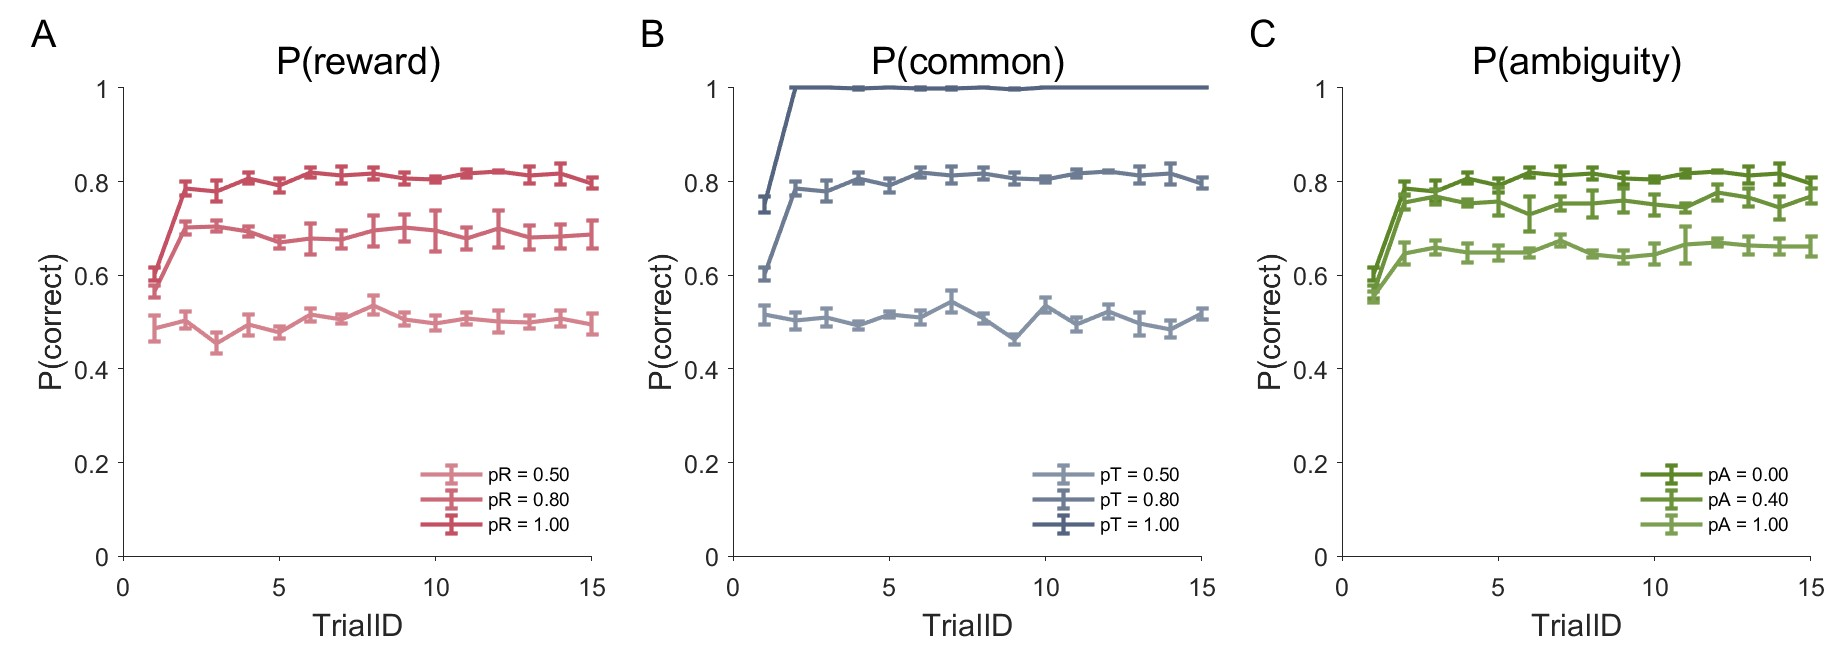
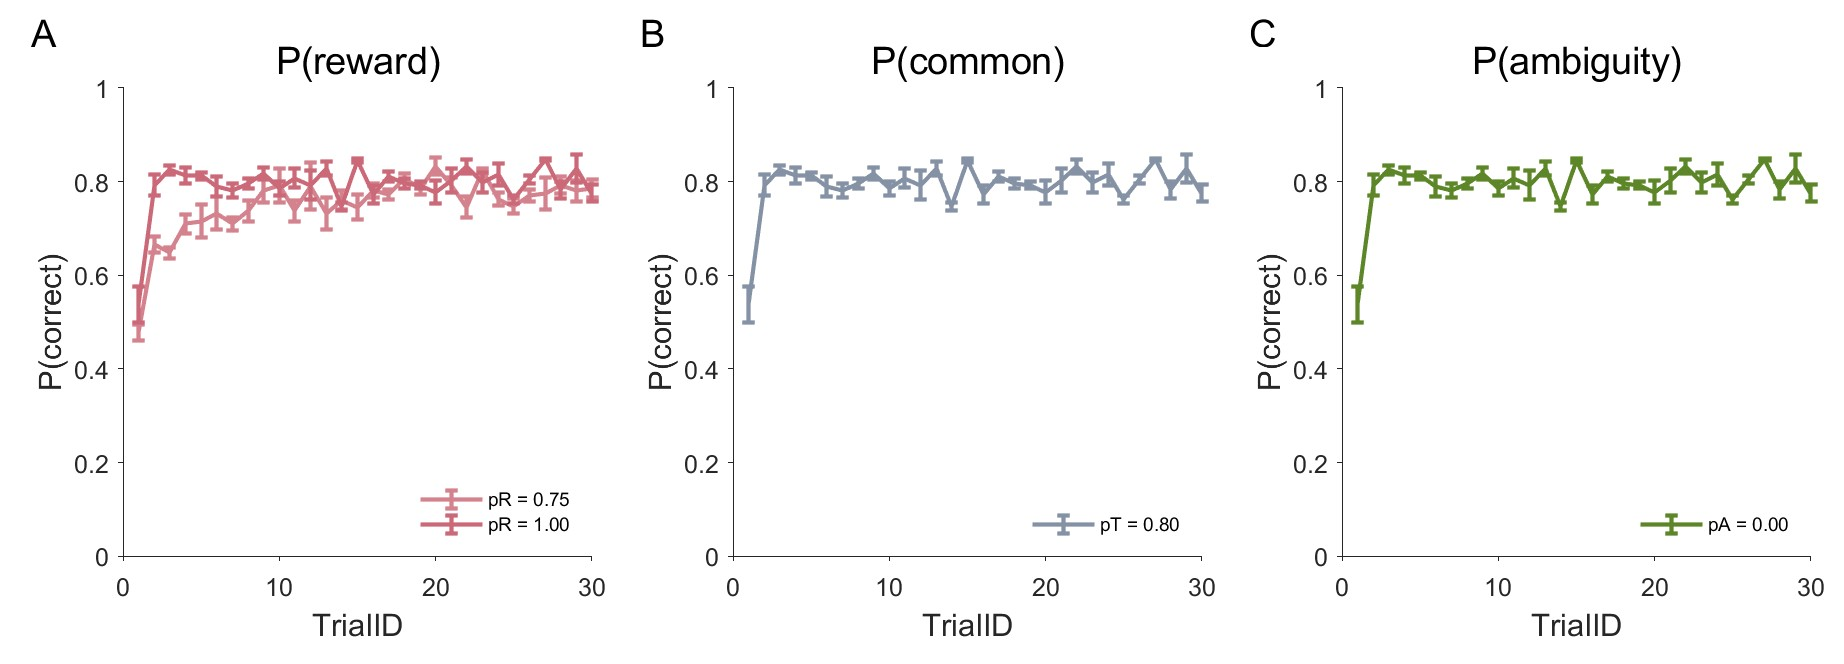
u

diff --git a/Code_analysis/main_analysis.m b/Code_analysis/main_analysis.m
@@ -1,6 +1,8 @@
 datadir = '../training_new/data';
 files = W.ls(datadir, 'dir');
 %%
+files = files(contains(files, 'PLOS'))
+%%
 d = {};
 tab = table;
 for i = 1:length(files)
@@ -34,7 +36,7 @@ plt = W_plt('savedir', '../Figures', 'issave',1);
 plt.figure(1,3, 'is_title',1);
 plt.setfig_all('xlabel', 'trialID', 'ylabel', 'p(reward)', 'ylim', [0 1], 'legloc', 'SE');
 plt.setfig(1:3,'title', {'p(reward)','p(common)','p(ambiguity)'});
-gp = gp0(gp0.group_analysis.agenttype == "Transition",:);
+gp = gp0(gp0.group_analysis.agenttype == "PLOS",:);
 plt.ax(1);
 tgp = gp(gp.group_analysis.p_ambiguity == "0" & gp.group_analysis.p_major == "0.8",:);
 [~,tod] = sort(tgp.GPav_p_reward_high);
@@ -64,7 +66,7 @@ plt.update('p(reward)');
 plt.figure(1,3, 'is_title',1);
 plt.setfig_all('xlabel', 'trialID', 'ylabel', 'p(correct)', 'ylim', [0 1], 'legloc', 'SE');
 plt.setfig(1:3,'title', {'p(reward)','p(common)','p(ambiguity)'});
-gp = gp0(gp0.group_analysis.agenttype == "Original",:);
+gp = gp0(gp0.group_analysis.agenttype == "PLOS",:);
 plt.ax(1);
 tgp = gp(gp.group_analysis.p_ambiguity == "0" & gp.group_analysis.p_major == "0.8",:);
 [~,tod] = sort(tgp.GPav_p_reward_high);
@@ -94,7 +96,7 @@ plt.update('p(correct)');
 plt.figure(1,3, 'is_title',1);
 plt.setfig_all('ylabel', 'average log likelihood', 'legloc', 'SE');
 plt.setfig(1:3,'xlabel', {'p(reward)','p(common)','p(ambiguity)'});
-gp = gp0(gp0.group_analysis.agenttype == "Original",:);
+gp = gp0(gp0.group_analysis.agenttype == "PLOS",:);
 
 plt.ax(1);
 tgp = gp(gp.group_analysis.p_ambiguity == "0" & gp.group_analysis.p_major == "0.8",:);
@@ -103,27 +105,27 @@ tgp = tgp(tod,:);
 tav = [tgp.GPav_Q1_LL'; tgp.GPav_MB_LL'];
 tse = [tgp.GPste_Q1_LL'; tgp.GPste_MB_LL'];
 cols = {'AZred','AZblue'};
-plt.plot(1:3, tav, tse, 'line', 'color', cols);
+plt.plot(1:size(tav,2), tav, tse, 'line', 'color', cols);
 plt.setfig_ax('legend', {'Q1', 'MB'});
 
 plt.ax(2);
-tgp = gp(gp.group_analysis.p_ambiguity == "0" & gp.group_analysis.p_reward_high == "1",:);
+tgp = gp(gp.group_analysis.p_ambiguity == "0" & gp.group_analysis.p_reward_high == "0.75",:);
 [~,tod] = sort(tgp.GPav_p_major );
 tgp = tgp(tod,:);
 tav = [tgp.GPav_Q1_LL'; tgp.GPav_MB_LL'];
 tse = [tgp.GPste_Q1_LL'; tgp.GPste_MB_LL'];
 cols = {'AZred','AZblue'};
-plt.plot(1:3, tav, tse, 'line', 'color', cols);
+plt.plot(1:size(tav,2), tav, tse, 'line', 'color', cols);
 plt.setfig_ax('legend', {'Q1', 'MB'});
 
 plt.ax(3);
-tgp = gp(gp.group_analysis.p_major == "0.8" & gp.group_analysis.p_reward_high == "1",:);
+tgp = gp(gp.group_analysis.p_major == "0.8" & gp.group_analysis.p_reward_high == "0.75",:);
 [~,tod] = sort(tgp.GPav_p_ambiguity );
 tgp = tgp(tod,:);
 tav = [tgp.GPav_Q1_LL'; tgp.GPav_MB_LL'];
 tse = [tgp.GPste_Q1_LL'; tgp.GPste_MB_LL'];
 cols = {'AZred','AZblue'};
-plt.plot(1:3, tav, tse, 'line', 'color', cols);
+plt.plot(1:size(tav,2), tav, tse, 'line', 'color', cols);
 plt.setfig_ax('legend', {'Q1', 'MB'});
 
 plt.update('LL');

diff --git a/Training_new/main_test.py b/Training_new/main_test.py
@@ -26,19 +26,19 @@ def test_2frame(subID, tvar):
     model_path = "model/" + tvar + "/" + f"v_{subID}"
     wk.loaddict_folder(currentfolder = model_path)
     params = dict(
-        ps_high_state = [1], \
-        ps_common_trans = [0.5,0.8,1.0],\
+        ps_high_state = [0.75], \
+        ps_common_trans = [0.8,1.0],\
         ps_ambiguity = [0],\
         )
     cb1 = W.W_counter_balance(params)
     params = dict(
-        ps_high_state = [1], \
+        ps_high_state = [0.75], \
         ps_common_trans = [0.8],\
-        ps_ambiguity =  [0,0.4,1.0],\
+        ps_ambiguity =  [0,0.4],\
         )
     cb2 = W.W_counter_balance(params)
     params = dict(
-        ps_high_state = [0.5,0.8,1.0], \
+        ps_high_state = [0.75,1.0], \
         ps_common_trans = [0.8],\
         ps_ambiguity = [0],\
         )
@@ -76,7 +76,7 @@ if __name__ == "__main__":
             elif veri == 2:
                 tvar = 'Transition'
             elif veri == 3:
-                tvar = 'Original'
+                tvar = 'PLOS'
             # keys = config[tvar]
             p = Process(target = test_2frame, args = (seed_idx, tvar))
             p.start()

diff --git a/Code_analysis/preprocess_2step.m b/Code_analysis/preprocess_2step.m
@@ -6,6 +6,7 @@ function d = preprocess_2step(d, ver)
     switch ver
         case '1frame'
             d.action = d.action + 1;
+            d.trialID = d.tot_t;
         case '2frames'
             tid = d.stage == 1;
             d.reward = reward(find(tid)+1);
